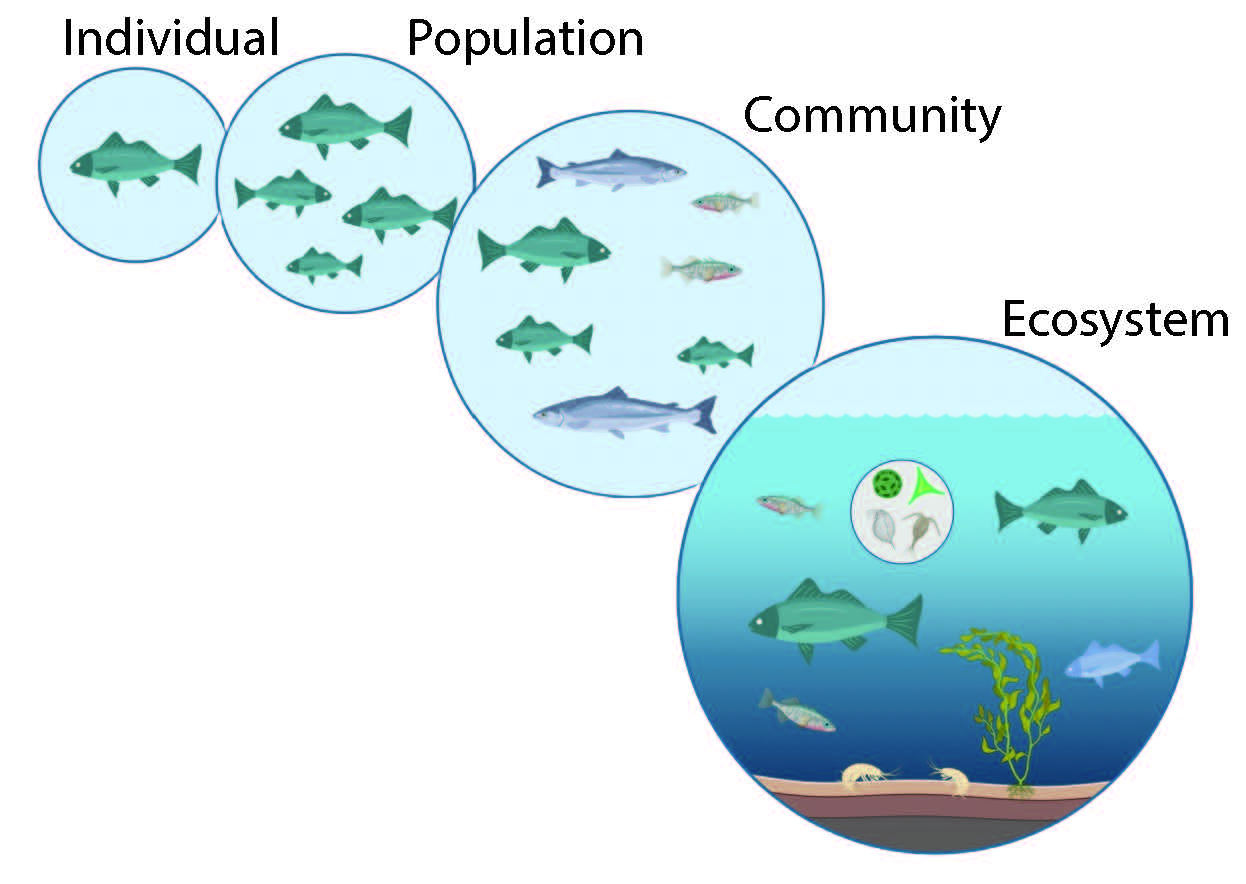
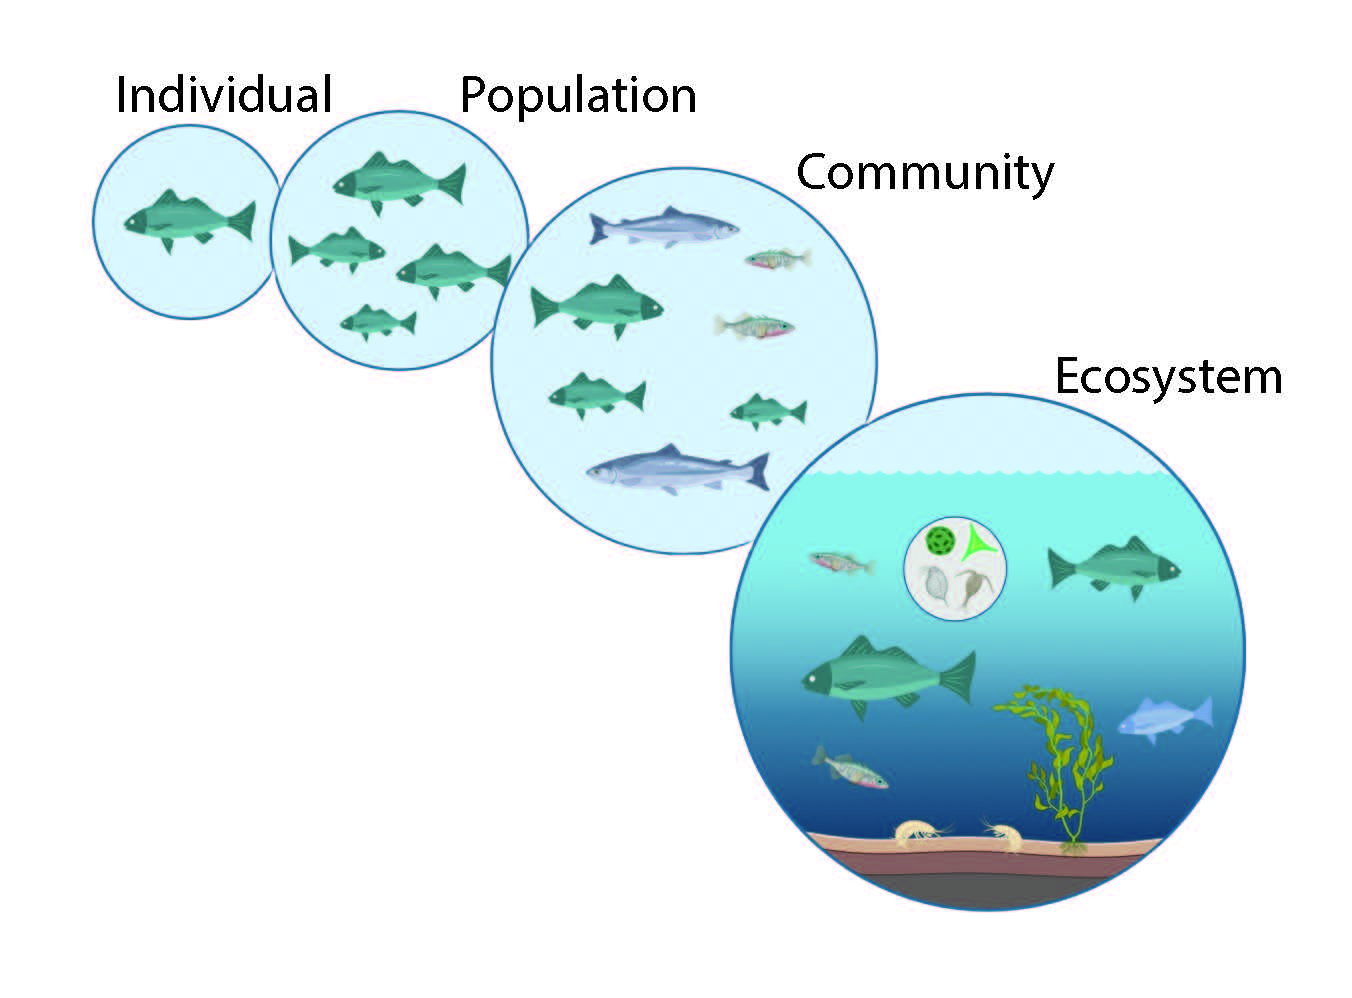
update project 3

Changed region(s): [[0.0305, 0.0305, 1.0, 0.9774], [0.3965, 0.4887, 0.4575, 0.5498]]

diff --git a/_projects/3_project.md b/_projects/3_project.md
@@ -8,3 +8,19 @@ category: Research lines
 ---
 
 The persistence of populations depends on the capacity of organisms to reproduce. But before organisms can reproduce, they must undergo one or various juvenile or immature stages during which they grow, sometimes substantially. Some fish species, for example, grow 4 to 5 orders of magnitude in size between hatching and the onset of reproduction. Hence, the capacity of populations and species to persist in the face of global change crucially depends on the capacity of organisms to develop, grow, and survive from zygote to reproduction, or in other words, to complete their life cycles. Therefore, studying how multiple environmental stressors, by altering the performance of different developmental stages, affect population dynamics is central to understanding species persistence and, ultimately, the maintenance of biodiversity.
+
+### Scaling up from the interaction between an organism and its environment to the persistence of populations and community dynamics
+
+My approach to this problem is to leverage knowledge at the individual scale to predict the responses of populations and communities to a changing environment. To do so, I use information from metabolic and physiological processes to formulate size/stage-structured models. These models provide a quantitative framework to study the population and community consequences of the complex regulatory process underlying organisms' development, growth, and survival in an eco-evolutionary context. I use these models to investigate how metabolic and physiological effects of various stressors scale up to alter individual performance, population persistence, and community dynamics.
+
+<div class="row">
+    <div class="col-sm mt-3 mt-md-0">
+        {% include figure.liquid path="assets/img/Individual_Pop_Com.jpg" title="example image" class="img-fluid rounded z-depth-1" %}
+    </div>
+</div>
+<div class="caption">
+    Figure 1. Ecological systems are complex systems whose properties at higher levels of organization emerge from interactions among components at lower levels. Therefore, characterising population and community responses to environmental change requires an understanding of how individual organisms respond and how these responses cascade through the networks of interacting organisms. 
+</div>
+
+
+For example, in my PhD, I applied this approach to investigate the impacts of multiple stressors on migratory fish populations and showed that, when combined, the cumulative impacts of multiple stressors at the individual level can produce nonlinear responses at the population level, making it very challenging to predict the cumulative impacts of stressors from their independent effects (<a href="https://doi.org/10.1111/1365-2435.13751">Chaparro-Pedraza, P.C., De Roos, 2021</a>). Afterward, with collaborators, I used this approach to evaluate the effectiveness of implementing marine protected areas to preserve community stability (<a href="https://www.pnas.org/doi/10.1073/pnas.2307529120">Chen, R., Chaparro-Pedraza, P.C., et al. 2023</a>).
